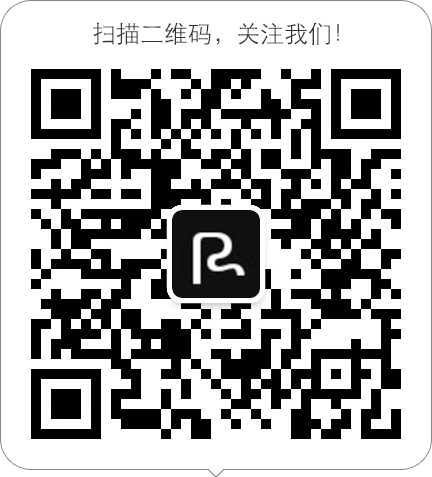
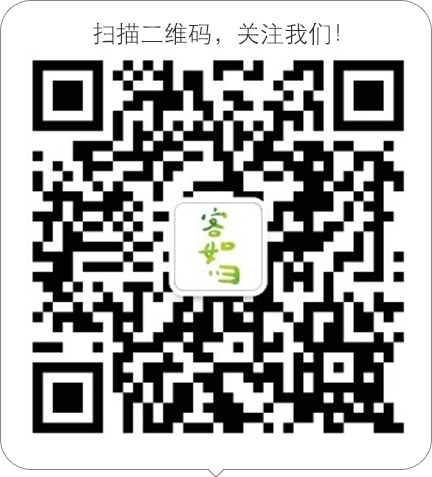
更新二维码

diff --git a/resources/service.html b/resources/service.html
@@ -75,10 +75,12 @@
 
 
             <div class="tablet-grid-100 mobile-grid-100 about-box">
-                <div class="qr-code" style="float:left;margin-top: 20px"></div>
+                <div class="qr-code" style="float:left;margin-top: 20px">
+                    <img src="images/yyh-a.png"/>
+                </div>
                 <div class="about-box"><br/>
 
-                    <h3>要有花</h3>
+                    <h3>大理要有花客栈活动</h3>
 
                     <p>宣扬客栈理念，营造独特品牌<br/>
                         别出心裁的活动形式，吸引兴趣用户<br/>
@@ -87,10 +89,11 @@
                 </div>
             </div>
             <div class="tablet-grid-100 mobile-grid-100 about-box">
-                <div class="qr-code" style="float:left;margin-top: 20px"></div>
+                <div class="qr-code" style="float:left;margin-top: 20px">
+                    <img src="images/xpj-a.png"/></div>
                 <div class="about-box"><br/>
 
-                    <h3>深圳小胖家</h3>
+                    <h3>深圳小胖家民宿活动</h3>
 
                     <p>挖掘淡季卖点，剑走偏锋<br/>
                         采用生动好玩的幽默风格进行包装<br/>
@@ -100,10 +103,12 @@
                 </div>
             </div>
             <div class="tablet-grid-100 mobile-grid-100 about-box">
-                <div class="qr-code" style="float:left;margin-top: 20px"></div>
+                <div class="qr-code" style="float:left;margin-top: 20px">
+                    <img src="images/xy-a.png"/>
+                </div>
                 <div class="about-box"><br/>
 
-                    <h3>大理囍粤客栈</h3>
+                    <h3>大理囍粤客栈周年店庆活动</h3>
 
                     <p>借助周年庆契机，强化品牌宣传<br/>
                         通过故事形式展示客栈，深化客栈形象<br/>

diff --git a/resources/products.html b/resources/products.html
@@ -113,9 +113,22 @@
             </header>
         </div>
         <div class="examples">
-            <div class="qr-code"></div>
-            <div class="qr-code"></div>
-            <div class="qr-code"></div>
+            <dl>
+                <dt>
+                <div class="qr-code">
+                    <img src="images/xpj.png"/>
+                </div>
+                </dt>
+                <dd>深圳·小胖家民宿</dd>
+            </dl>
+            <dl>
+                <dt>
+                <div class="qr-code">
+                    <img src="images/fc.png"/>
+                </div>
+                </dt>
+                <dd>梵尘客栈</dd>
+            </dl>
         </div>
 
     </div>

diff --git a/resources/css/common.css b/resources/css/common.css
@@ -1211,6 +1211,14 @@ a:hover {
   clear      : both;
 }
 
+.examples dl {
+  display : inline-block;
+}
+
+.examples dt .qr-code {
+  margin : 50px 35px 10px;
+}
+
 .qr-code {
   display       : inline-block;
   width         : 128px;
@@ -1218,4 +1226,11 @@ a:hover {
   border        : 3px solid #EAEAEA;
   border-radius : 3px;
   margin        : 50px 35px;
+}
+
+.qr-code img {
+  margin  : 0;
+  display : block;
+  width   : 100%;
+  height  : 100%;
 }
